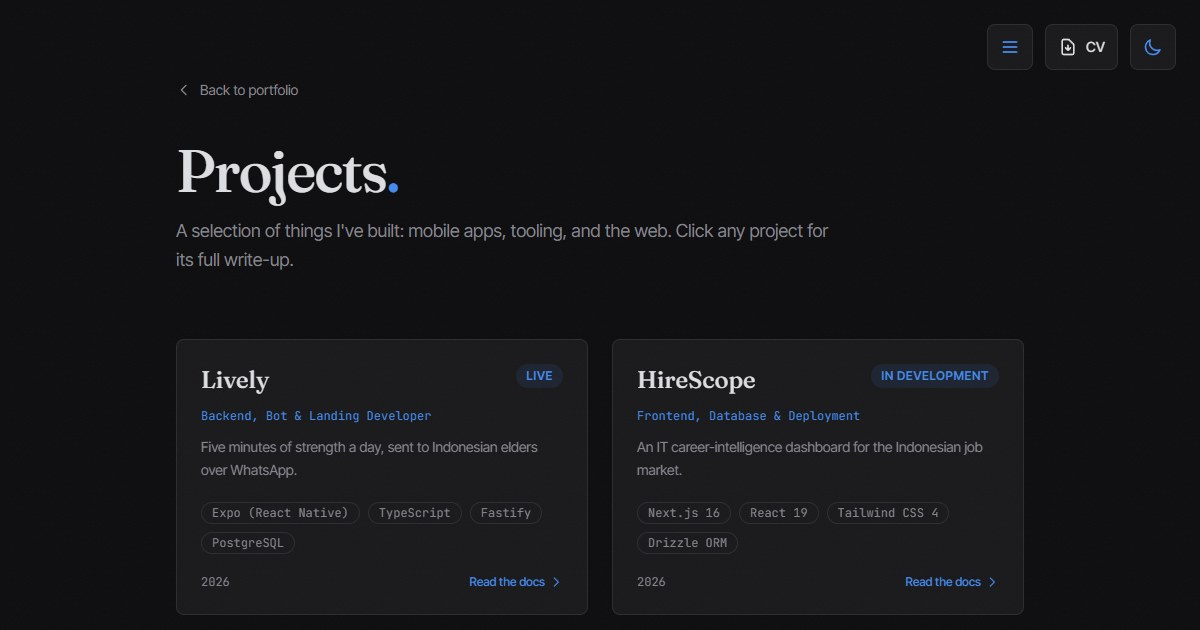
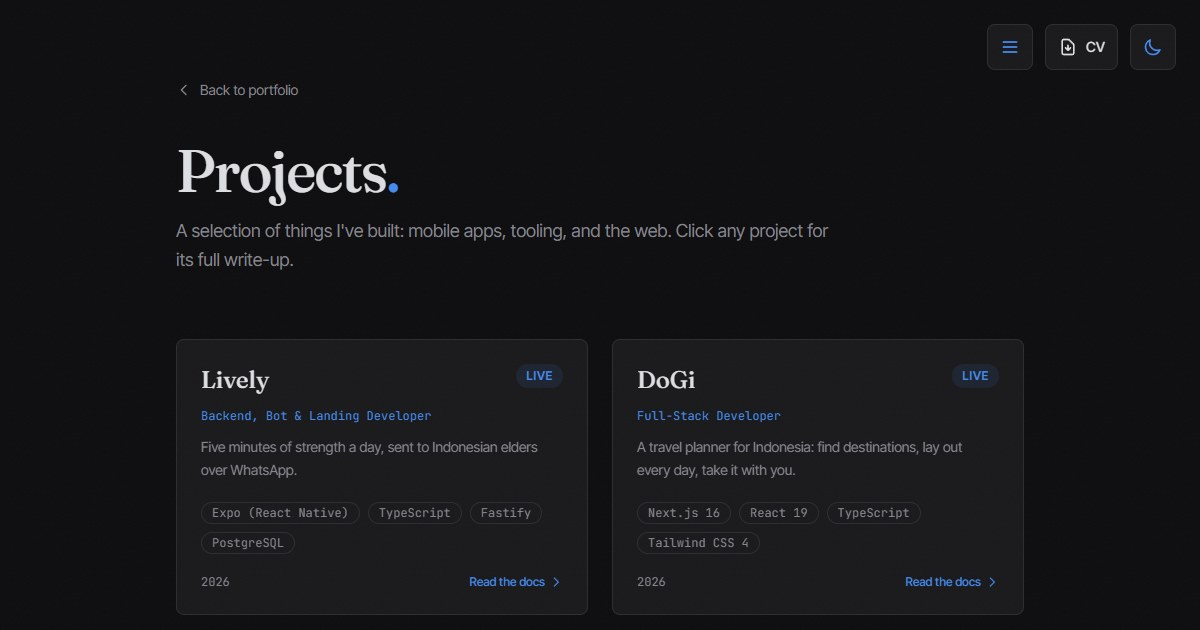
feat(projects): add DoGi
DoGi is a live travel planner for Indonesia and one of the larger things built so far: auth, a drag-and-drop calendar planner, Google Calendar sync, PDF export, paid tiers and self-hosted CI. It belongs on the projects page and in the home selection, with screenshots of its public pages and its own link preview.

diff --git a/src/data/projects.ts b/src/data/projects.ts
@@ -117,6 +117,79 @@ export const projects: Project[] = [
     ],
   },
   {
+    slug: 'dogi',
+    name: 'DoGi',
+    tagline: 'A travel planner for Indonesia: find destinations, lay out every day, take it with you.',
+    summary:
+      'DoGi is a travel-planning web app for trips across Indonesia. You browse curated destinations, drag activities onto a day-by-day calendar, then sync the plan to Google Calendar or export it as a PDF to share. It runs in English and Bahasa Indonesia, has tiered subscriptions with real checkout, and is self-hosted on a home server with its own CI pipeline.',
+    year: '2026',
+    role: 'Full-Stack Developer',
+    status: 'Live',
+    featured: true,
+    tech: ['Next.js 16', 'React 19', 'TypeScript', 'Tailwind CSS 4', 'Drizzle ORM', 'PostgreSQL', 'NextAuth'],
+    highlights: [
+      'Drag-and-drop itinerary planner on a day-by-day calendar',
+      'Google Calendar sync, .ics files, and PDF export',
+      'English and Bahasa Indonesia, routed per locale',
+      'Free, Silver, Gold and Platinum tiers with Mayar checkout',
+    ],
+    links: [{ label: 'Live site', href: 'https://dogi.darrenharyanto.com' }],
+    images: [
+      { src: '/screenshots/dogi/01-landing.jpg', alt: 'DoGi landing page: "Planning made easy with DoGi" over an aerial shot of manta rays in turquoise water' },
+      { src: '/screenshots/dogi/02-destinations.jpg', alt: 'Popular destinations: Bali, Labuan Bajo, Yogyakarta and Raja Ampat' },
+      { src: '/screenshots/dogi/03-features.jpg', alt: 'Features wheel with the itinerary planner selected' },
+      { src: '/screenshots/dogi/04-login.jpg', alt: 'Sign-in page with email and Google sign-in beside a photo of a Raja Ampat shoreline' },
+    ],
+    documentation: [
+      {
+        heading: 'Overview',
+        paragraphs: [
+          'DoGi is an all-in-one planner for travelling in Indonesia, from Sabang to Merauke. A trip starts from a curated destination or a blank itinerary, and every activity, meal, transfer and stay lands on a calendar grid you can rearrange by dragging.',
+          'When the plan is ready it leaves the app: it syncs to Google Calendar, downloads as an .ics file, or exports as a formatted PDF to send to the people coming along.',
+        ],
+      },
+      {
+        heading: 'Core features',
+        bullets: [
+          'Itinerary planner: a day-by-day calendar with drag and drop (dnd-kit), typed time and duration inputs, and a one-line quick add for ideas and events.',
+          'Destinations: a curated catalogue with detail pages, maps (Leaflet over CARTO basemaps), and an admin editor for destinations.',
+          'Calendar sync and export: Google Calendar through the Google APIs, .ics files, and PDF export with react-pdf.',
+          'AI trip planner: a draft, refine and save flow that turns a trip request into a structured itinerary, behind a pluggable model provider with daily quotas per tier.',
+          'Dashboard: upcoming and past trips, days travelled, profile and settings.',
+        ],
+      },
+      {
+        heading: 'Accounts and subscriptions',
+        bullets: [
+          'NextAuth v5 with email and password (bcrypt) or Google sign-in, and an email verification flow sent through Resend.',
+          'Free, Silver, Gold and Platinum tiers, each with its own limits on trips, trip length, ideas and AI drafts.',
+          'Payments through Mayar checkout, with a webhook that upgrades the account once the payment clears.',
+        ],
+      },
+      {
+        heading: 'Tech stack',
+        bullets: [
+          'Next.js 16 (App Router) with React 19, TypeScript and Tailwind CSS 4.',
+          'Drizzle ORM over Neon serverless PostgreSQL, with migrations from drizzle-kit.',
+          'next-intl for English and Bahasa Indonesia routing.',
+          'Lenis and Framer Motion for scrolling and motion.',
+        ],
+      },
+      {
+        heading: 'Deployment',
+        paragraphs: [
+          'DoGi runs as a Docker container on a self-hosted server. A Gitea Actions workflow builds the image, pushes the database schema with drizzle-kit, and restarts the app on every push, with NextAuth configured to trust the reverse proxy in front of it.',
+        ],
+      },
+      {
+        heading: 'My role',
+        paragraphs: [
+          'I built DoGi end to end: the data model, authentication, the planner, calendar sync and PDF export, subscriptions and payments, the AI trip planner, and the self-hosted deployment. A teammate contributed early dashboard and planner interface work.',
+        ],
+      },
+    ],
+  },
+  {
     slug: 'hirescope',
     name: 'HireScope',
     tagline: 'An IT career-intelligence dashboard for the Indonesian job market.',
